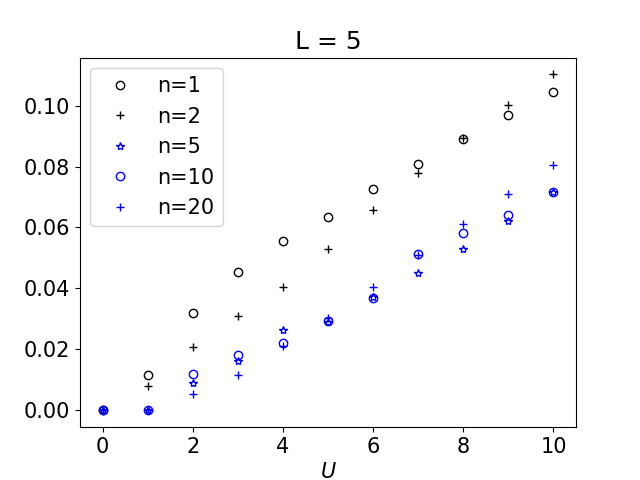
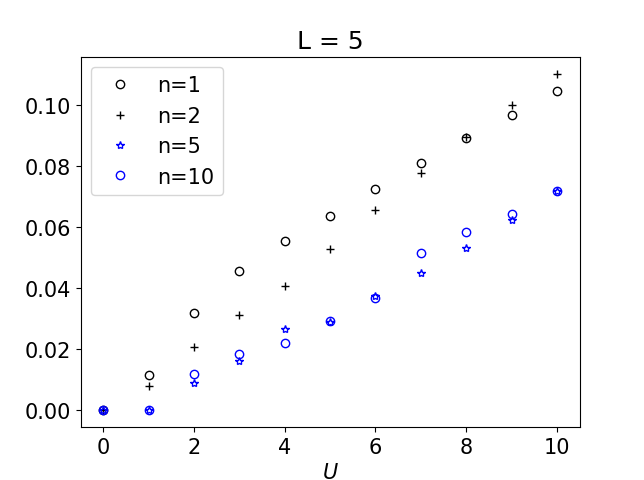
more plots

diff --git a/grafs.py b/grafs.py
@@ -12,75 +12,56 @@ from scipy.interpolate import make_interp_spline
 from scipy.interpolate import Rbf, InterpolatedUnivariateSpline
 from scipy.interpolate import interp1d
 
-nf = 35
+nf = 10
 
-with open( "list7_3a.p", 'rb') as f:
+with open( "list3.p", 'rb') as f:
     u = pickle._Unpickler(f)
     u.encoding = 'latin1'
-    l2 = u.load()
+    list2 = u.load()
 
-with open( "list7_3b.p", 'rb') as f:
+with open( "list4.p", 'rb') as f:
     u = pickle._Unpickler(f)
     u.encoding = 'latin1'
-    l1 = u.load()
-
-with open( "list7_3c.p", 'rb') as f:
+    list1 = u.load()
+ 
+with open( "list1.p", 'rb') as f:
     u = pickle._Unpickler(f)
     u.encoding = 'latin1'
-    l4 = u.load()
+    list4 = u.load()
 
-with open( "list7_3d.p", 'rb') as f:
+with open( "list2.p", 'rb') as f:
     u = pickle._Unpickler(f)
     u.encoding = 'latin1'
-    l3 = u.load()
+    list3 = u.load()
 
-list1 = np.array(l1)
-list2 = np.array(l2)
-
-list3 = np.array(l3)
-list4 = np.array(l4)
-
+FI1 =[0,1,2,3,4,5, 6, 7, 8, 9,10]
+FI1 = np.array(FI1)
 
 list1[0] = list2[0]
 list1[1] = list2[1]
 list1[2] = list2[2]
 list1[3] = list2[3]
-list1[4] = list2[4]
-list1[5] = list2[5]
+list3[0] = list4[0]
+list3[1] = list4[1]
+list3[2] = list4[2]
+list3[3] = list4[3]
 
-list3[0] = list2[0]
-list3[1] = list2[1]
-list3[2] = list2[2]
-list3[3] = list2[3]
-list3[4] = list2[4]
-list3[5] = list2[5]
-
-FI1 =[0,1,2,3,4,5, 6, 7, 8, 9,10]
-FI1 = np.array(FI1)
-
-print(list3)
 eigenor= np.zeros((11,nf))
 eigennumor = np.zeros((11,nf))
-eigennumor2 = np.zeros((11,nf))
+eigenor1= np.zeros((11,nf))
+eigennumor1 = np.zeros((11,nf))
 gap = np.zeros((11,nf-1))
 gapnum = np.zeros((11,nf-1))
-
 
 for u in range(11):
    eigenor[u] = list(list2.real[u])
    eigenor[u].sort() 
    eigennumor[u] = list(list1.real[u])
-   eigennumor[u].sort()
-   eigennumor2[u] = list(list3.real[u])
-   eigennumor2[u].sort() 
-
-for i in range(5,11):
-   eigennumor[i][19] = eigennumor[i][18]
-   eigennumor[i][20] = eigennumor[i][21]
-   eigennumor2[i][19] = eigennumor[i][18]
-   eigennumor2[i][20] = eigennumor[i][21]
-
-for u in range(11):
+   eigennumor[u].sort() 
+   eigenor1[u] = list(list4.real[u])
+   eigenor1[u].sort() 
+   eigennumor1[u] = list(list3.real[u])
+   eigennumor1[u].sort()  
    for j in range(5):
       gap[u,j] = eigenor[u,j+1]-eigenor[u,1]
       gapnum[u,j] = eigennumor[u][j+1]-eigennumor[u][1]
@@ -88,49 +69,30 @@ for u in range(11):
       gap[u,j] = eigenor[u,j+1]-eigenor[u,0]
       gapnum[u,j] = eigennumor[u][j+1]-eigennumor[u][0]
  
-
-na = 20
-for i in range(5):
-   eigennumor[6,i] = eigenor[6,i]
-   eigennumor2[6,i] = eigenor[6,i]
-
-
-for i in range(6,11):
-   eigennumor[i,6] = eigennumor[i,5]
-   eigennumor[i,20] = eigenor[i,20]
-   eigennumor[i,19] = eigenor[i,19]
-   eigennumor[i,18] = eigenor[i,18]
-   eigennumor2[i,6] = eigennumor[i,5]
-   eigennumor2[i,20] = eigenor[i,20]
-   eigennumor2[i,19] = eigenor[i,19]
-   eigennumor2[i,18] = eigenor[i,18]
-
-
 plt.rc('axes', labelsize=15)
 plt.rc('font', size=15)  
-for i in range(na-1):
+for i in range(nf-1):
    plt.plot(FI1, eigenor[:,i],'r-')
    plt.plot(FI1, eigennumor[:,i],'ko',mfc='none')
-   plt.plot(FI1, eigennumor2[:,i],'bx',mfc='none')
-plt.plot(FI1, eigenor[:,na-1],'r-', mfc='none',label='exact')
-plt.plot(FI1, eigennumor[:,na-1],'ko', mfc='none',label='$w_{s,2} = 0.357$')
-plt.plot(FI1, eigennumor2[:,na-1],'bx', mfc='none',label='$w_{s,2} = 0.4$')
+   plt.plot(FI1, eigennumor1[:,i],'bo',mfc='none')
+plt.plot(FI1, eigenor[:,nf-1],'r-', mfc='none',label='exact')
+plt.plot(FI1, eigennumor[:,nf-1],'ko', mfc='none',label='$w_{s,2}=0.28$')
+plt.plot(FI1, eigennumor1[:,nf-1],'bo', mfc='none',label='$w_{s,2}=0.4$')
 plt.legend(prop={"size":15},loc='upper left')
 plt.xlabel("$U$")
-plt.title("L = 7")
+plt.title("L = 5")
 plt.show()
 
 plt.rc('axes', labelsize=15)
 plt.rc('font', size=15) 
-for i in range(na-2):
+for i in range(nf-2):
    plt.plot(FI1, gap[:,i],'r-')
    plt.plot(FI1, gapnum[:,i],'ko',mfc='none') 
-plt.plot(FI1, gap[:,na-2],'r-', mfc='none',label='exact')
-plt.plot(FI1, gapnum[:,na-2],'ko',mfc='none', label='UCCSD')
-plt.plot(FI1, gapnum[:,na-2],'ko',mfc='none', label='UCCSD')
+plt.plot(FI1, gap[:,nf-2],'r-', mfc='none',label='exact')
+plt.plot(FI1, gapnum[:,nf-2],'ko',mfc='none', label='UCCSD')
 plt.legend(prop={"size":15},loc='upper left')
 plt.xlabel("$U$")
-plt.title("L = 7")
+plt.title("L = 5")
 plt.show()
 
 def func(vec, vec1):

diff --git a/Figures/additional files/wfieldruncopy2.py b/Figures/additional files/wfieldruncopy2.py
@@ -77,12 +77,12 @@ class function():
     
 
 #NUMBER OF SITES, WEIGHTS and TROTTER STEPS:
-L = 5
+L = 6
 trotter = 10
 w = list(np.arange(0.5/L,0.5+0.01,0.5/L)) 
 Num = 2
 ni = 0
-nf = 32
+nf = 64
 
 #GENERATION OF THE HILBERT (FOCK) SPACE
 ## This generates the Hilbert space {|000>,|001>,...} but in a non-organized way
@@ -287,16 +287,16 @@ eigennumor5 = np.zeros((11,1))
 eigenor= np.zeros((11,nf))
 
 w[2] = 0.2
-exact = np.zeros(11)
+exact = np.zeros(7)
 u = 4
-output = np.zeros(11)
+output = np.zeros(7)
 weights = vecf(w,res1)
 weights = np.array(weights)
 Hamil=Ham(Ham1,Ham2,u) 
 fun = function(weights[ni:ni+nf],res2,Hamil)
 seed = optimize.fmin(fun.evalua, seed,maxfun=200000,maxiter=200000,ftol=1e-2,xtol=1e-2)
 
-for ss in range(11):
+for ss in range(7):
    print(w)
    weights = vecf(w,res1)
    weights = np.array(weights)
@@ -360,26 +360,28 @@ for ss in range(11):
    w[2] += 0.02
 
 
-FI1 =w = list(np.arange(0.2,0.4+0.01,0.02))
+FI1 =w = list(np.arange(0.2,0.33,0.01))
 FI1 = np.array(FI1)
 
-#with open( "exact", 'rb') as f:
-#    u = pickle._Unpickler(f)
-#    u.encoding = 'latin1'
-#    exact = u.load()
+with open( "exact2", 'rb') as f:
+    u = pickle._Unpickler(f)
+    u.encoding = 'latin1'
+    exact = u.load()
 
-#with open( "output", 'rb') as f:
-#    u = pickle._Unpickler(f)
-#    u.encoding = 'latin1'
-#    output = u.load()
+with open( "output2", 'rb') as f:
+    u = pickle._Unpickler(f)
+    u.encoding = 'latin1'
+    output = u.load()
 
-pickle.dump(exact, open( "exact", "wb" ) )
-pickle.dump(output, open( "output", "wb" ) )
+print(output,exact)
+#pickle.dump(exact, open( "exact", "wb" ) )
+#pickle.dump(output, open( "output", "wb" ) )
 
 plt.rc('axes', labelsize=15)
 plt.rc('font', size=15)  
 plt.plot(FI1, exact,'r-', mfc='none',label='exact',markersize=8)
 plt.plot(FI1, output,'ko', mfc='none',label='UCCSD',markersize=8)
+plt.plot(FI1, output,'k-', mfc='none',markersize=8)
 plt.legend(prop={"size":15},loc='upper left')
 plt.show()
 

diff --git a/Figures/additional files/grafstrotter.py b/Figures/additional files/grafstrotter.py
@@ -61,7 +61,6 @@ plt.plot(FI1, Energies[1],'ko', mfc='none',label='n=1')
 plt.plot(FI1, Energies[2],'k+',mfc='none', label='n=2')
 plt.plot(FI1, Energies[3],'b*',mfc='none', label='n=5')
 plt.plot(FI1, Energies[4],'bo',mfc='none', label='n=10')
-plt.plot(FI1, Energies[5],'b+',mfc='none', label='n=20')
 plt.legend(prop={"size":15},loc='upper left')
 plt.ylabel("Energies")
 plt.title("L = 5")
@@ -82,8 +81,6 @@ plt.rc('font', size=15)
 plt.plot(FI1, Energies[1],'ko', mfc='none',label='n=1')
 plt.plot(FI1, Energies[2],'k+',mfc='none', label='n=2')
 plt.plot(FI1, Energies[3],'b*',mfc='none', label='n=5')
-plt.plot(FI1, Energies[4],'bo',mfc='none', label='n=10')
-plt.plot(FI1, Energies[5],'b+',mfc='none', label='n=20')
 plt.ylabel("Errors")
 plt.show()
 
@@ -96,8 +93,6 @@ plt.rc('font', size=15)
 plt.plot(FI1, Energies[1],'ko', mfc='none',label='n=1')
 plt.plot(FI1, Energies[2],'k+',mfc='none', label='n=2')
 plt.plot(FI1, Energies[3],'b*',mfc='none', label='n=5')
-plt.plot(FI1, Energies[4],'bo',mfc='none', label='n=10')
-plt.plot(FI1, Energies[5],'b+',mfc='none', label='n=20')
 plt.legend(prop={"size":15},loc='upper left')
 plt.xlabel("$U$")
 plt.title("L = 5")
